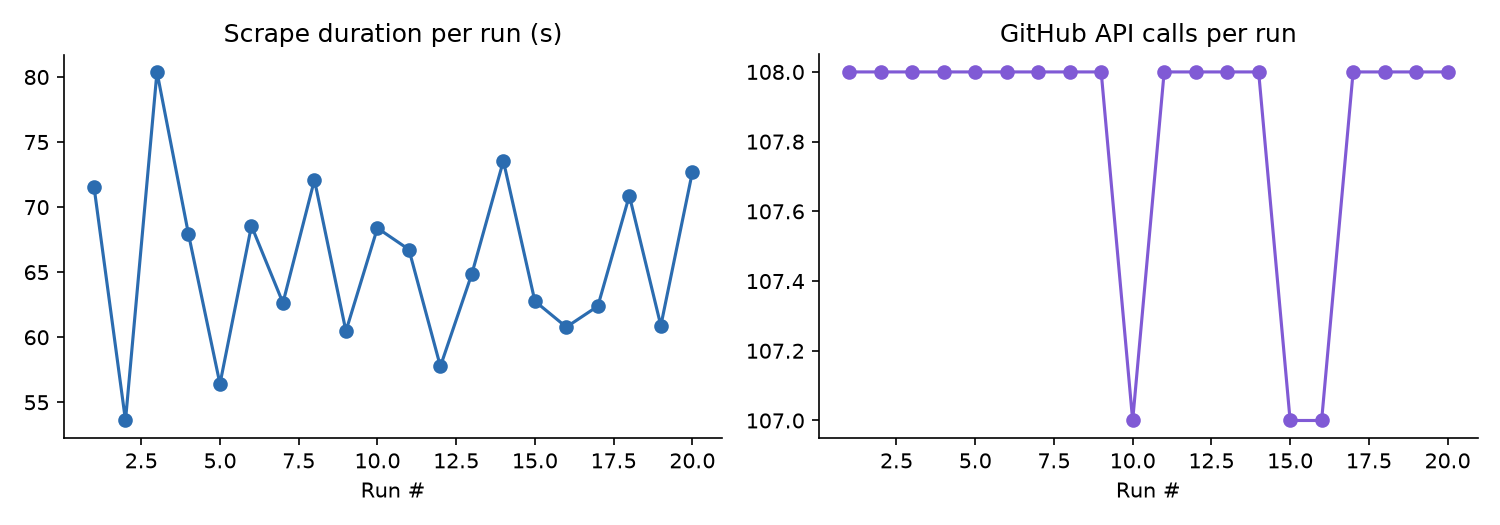
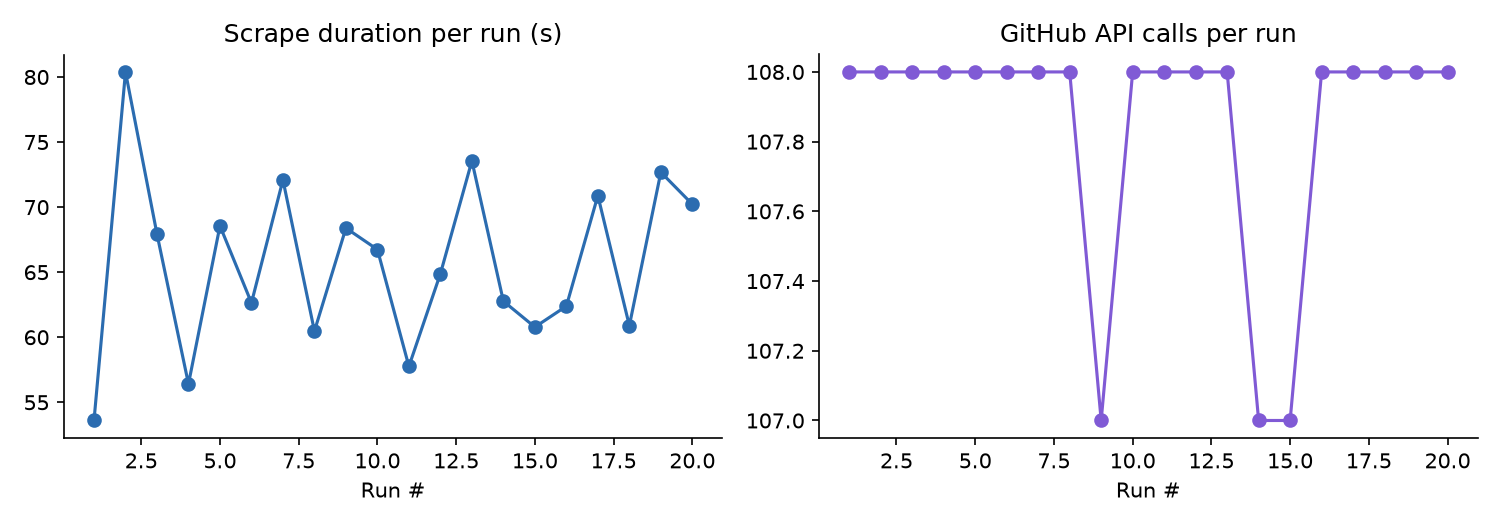
Weekly issue tracker refresh

diff --git a/README.md b/README.md
@@ -81,7 +81,7 @@ See [CONTRIBUTING.md](CONTRIBUTING.md) for the full contributor workflow — inc
 
 <!-- TRACKER:START -->
 
-_Last updated: 2026-07-29 16:55 UTC_
+_Last updated: 2026-07-29 17:26 UTC_
 
 _Tracking **18** upstream repos, **389** relevant open issues._
 
@@ -295,7 +295,7 @@ _Tracking **18** upstream repos, **389** relevant open issues._
 
 <!-- METRICS:START -->
 
-_Last run: 2026-07-29 16:54 UTC, took **72.7s**, **108** GitHub API calls, **4893/5000** rate limit remaining._
+_Last run: 2026-07-29 17:25 UTC, took **70.2s**, **108** GitHub API calls, **4786/5000** rate limit remaining._
 
 ![Scrape metrics trend](assets/metrics_trend.png)
 
